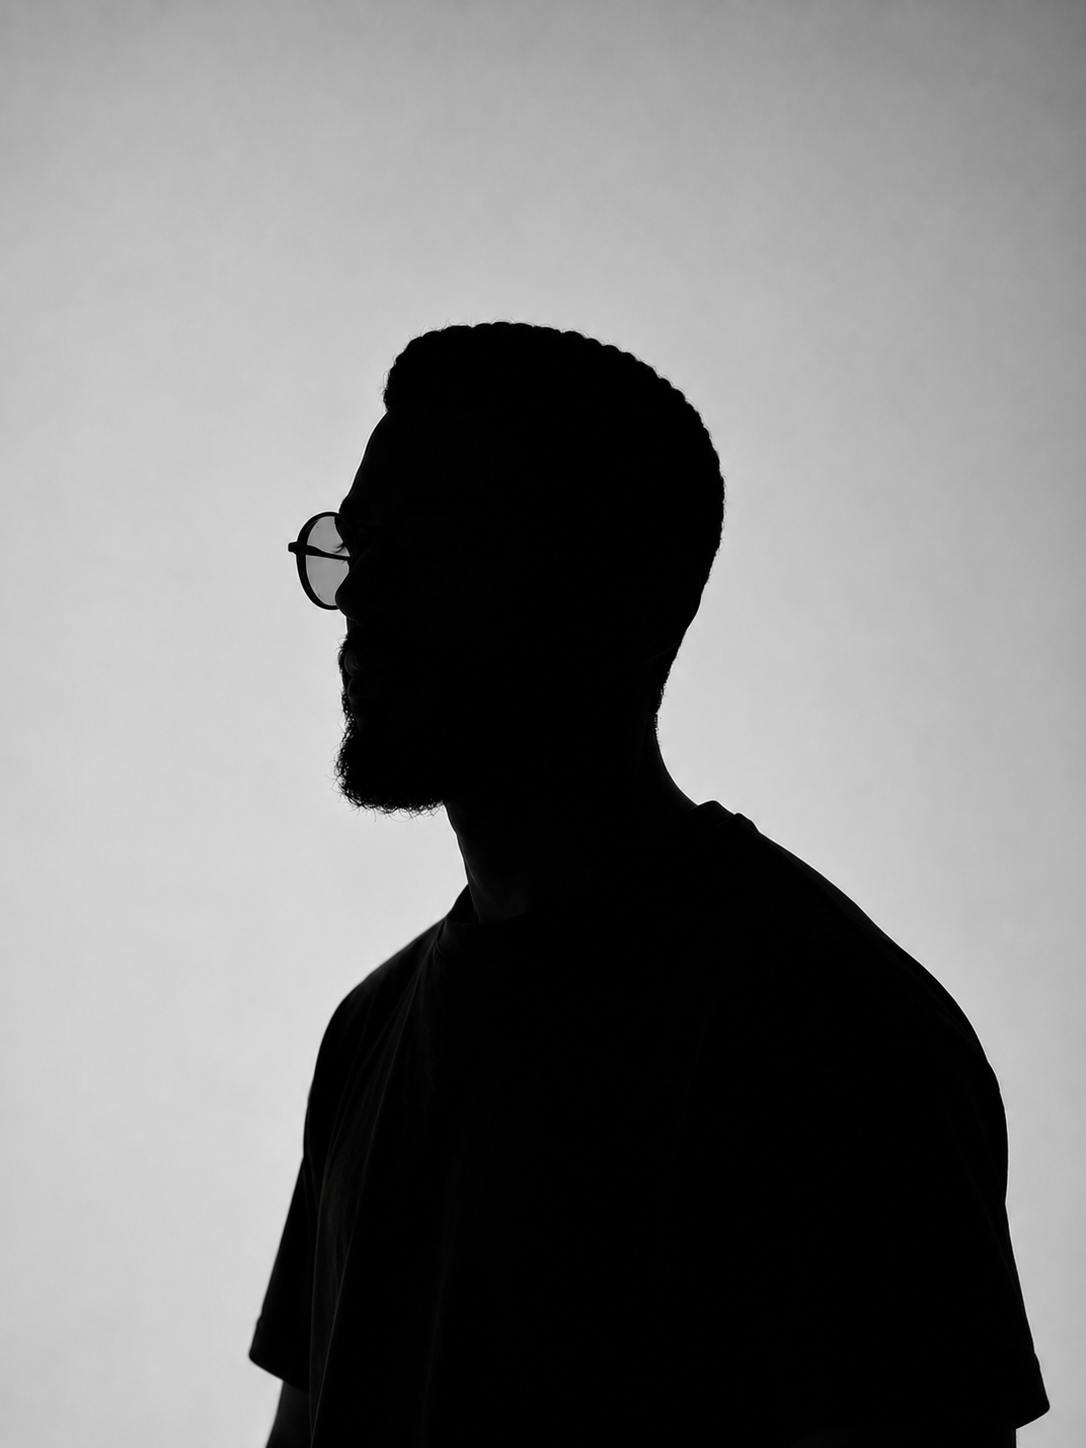
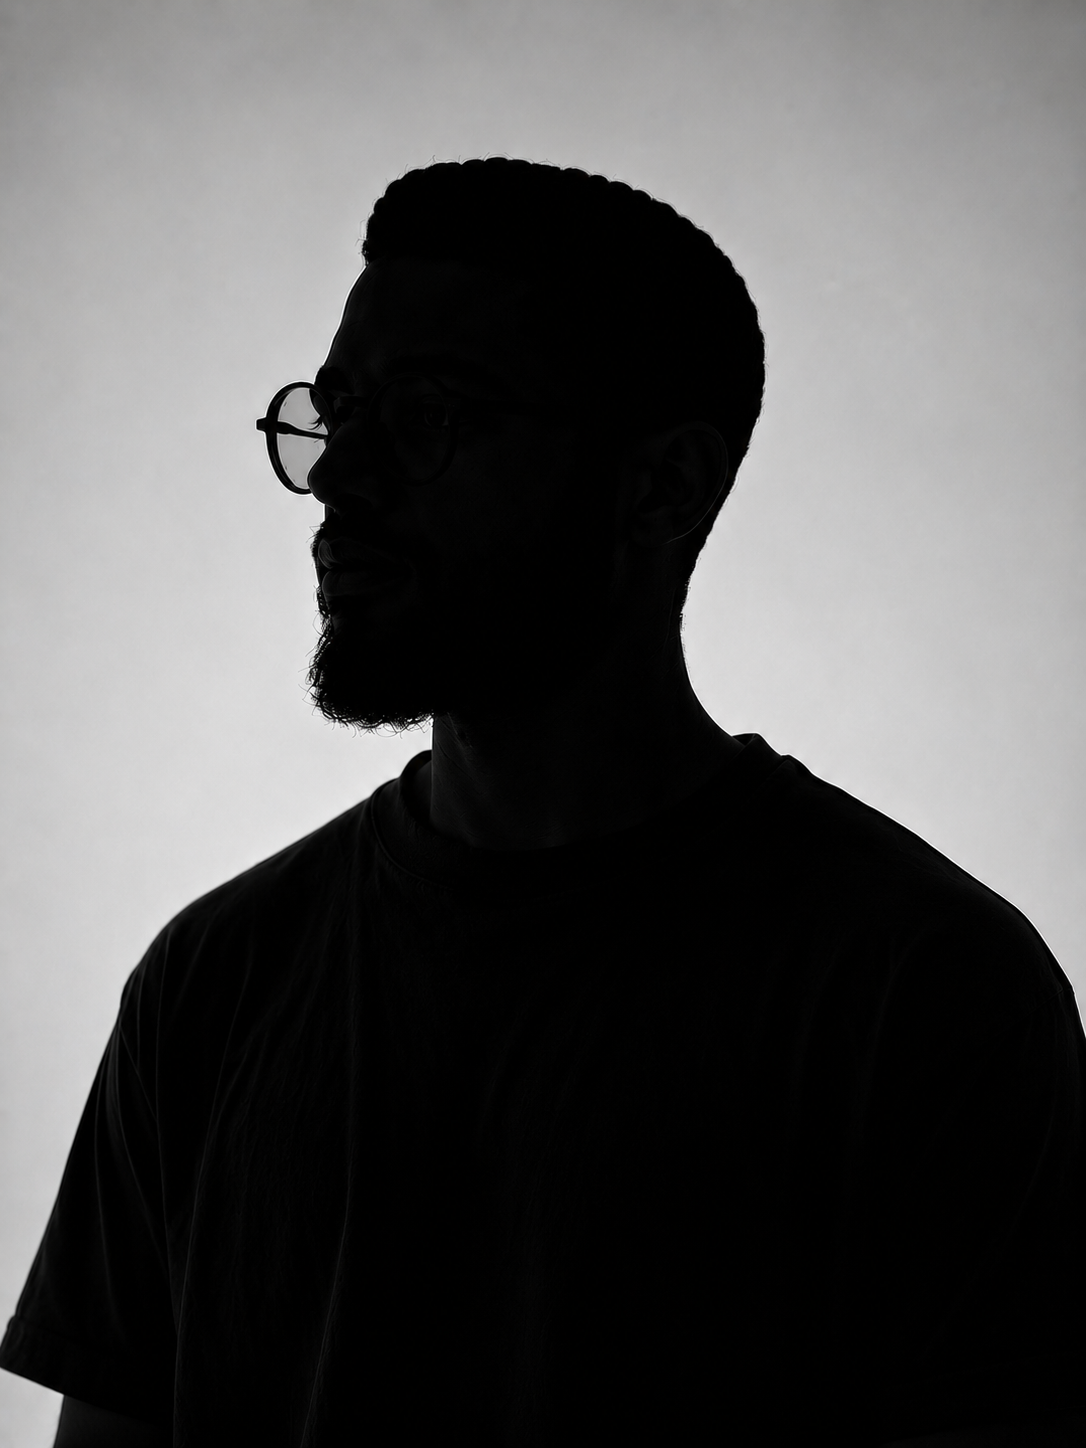
Small edits

Changed region(s): [[0.0, 0.0932, 1.0, 1.0], [0.0, 0.0, 0.0608, 0.1243]]

diff --git a/app/features/hero/HeroCTA.tsx b/app/features/hero/HeroCTA.tsx
@@ -1,0 +1,52 @@
+import { Button } from "@/components/ui/button"; // Standard shadcn button import
+import { ArrowRight, ArrowUpRight } from "lucide-react";
+
+export default function HeroCTA() {
+  return (
+    <section className="mt-14 mx-5 sm:mx-20 flex justify-between">
+      {/* Left Content: Typography */}
+      <div className="max-w-[620px] hidden md:block">
+        <p className="text-[1.125rem] font-medium leading-[1.65] text-zinc-900 md:text-[1.1875rem]">
+          Independent developer crafting quiet, considered
+          <br className="hidden sm:block" />
+          interfaces for ambitious teams. Emphasis on
+          <br className="hidden sm:block" />
+          typography, motion, and detail.
+        </p>
+      </div>
+
+      {/* Right Content: Buttons */}
+      <div className="flex flex-col  lg:flex-row items-start gap-4">
+        <Button
+          className="cursor-pointer group relative overflow-hidden flex py-6 sm:py-0 sm:h-[58px] items-center rounded-full bg-black pl-6 sm:pl-8 pr-2.5 transition-all hover:bg-black/90 
+  before:absolute before:inset-0 before:content-[''] before:-translate-x-[150%] before:skew-x-[30deg] before:bg-gradient-to-r before:from-transparent before:via-white/60 before:to-transparent before:transition-transform before:duration-500 before:ease-out hover:before:translate-x-[150%]"
+        >
+          <span className="relative z-10 mr-4 sm:mr-8 text-[11px] font-bold uppercase tracking-[0.25em] text-white">
+            View Projects
+          </span>
+          <div className="relative z-10 flex h-7 w-7 sm:h-10 sm:w-10 items-center justify-center rounded-full bg-[#1e1e1e] transition-transform duration-300 group-hover:translate-x-0.5">
+            <ArrowRight
+              className="h-3 w-3 sm:h-4 sm:w-4 text-white"
+              strokeWidth={2}
+            />
+          </div>
+        </Button>
+
+        <Button
+          variant="outline"
+          className="cursor-pointer group flex py-6 sm:py-0 sm:h-[58px] items-center rounded-full border-[#e4e4e7] hover:border-black bg-white pl-6 sm:pl-8 pr-2.5 transition-all hover:bg-zinc-50"
+        >
+          <span className="mr-8 text-[11px] font-bold uppercase tracking-[0.25em] text-zinc-900">
+            Contact
+          </span>
+          <div className="flex h-7 w-7 sm:h-10 sm:w-10 items-center justify-center rounded-full border border-[#e4e4e7] bg-white transition-transform duration-300 group-hover:-translate-y-0.5 group-hover:translate-x-0.5">
+            <ArrowUpRight
+              className="h-3 w-3 sm:h-4 sm:w-4 text-zinc-900"
+              strokeWidth={2.5}
+            />
+          </div>
+        </Button>
+      </div>
+    </section>
+  );
+}

diff --git a/app/features/hero/HeroContent.tsx b/app/features/hero/HeroContent.tsx
@@ -12,7 +12,7 @@ function HeroContent() {
       </div>
 
       {/* Portrait Section */}
-      <div className="relative z-1 p-2 sm:p-3 w-fit -left-[85px] md:left-0 sm:ml-0   ">
+      <div className="relative z-1 p-2 sm:p-3 w-fit -left-[85px] md:left-0 sm:ml-0 2xl:pr-10  ">
         {/* Top Left Crop Mark */}
         <div className="absolute -top-[0px] -left-[0px] w-[52px] h-[52px] border-t border-l border-gray-400"></div>
 
@@ -20,12 +20,12 @@ function HeroContent() {
         <div className="absolute -bottom-[0] -right-[0] w-[52px] h-[52px] border-b border-r border-gray-400"></div>
 
         {/* Portrait Placeholder */}
-        <div className="w-[130px] h-[160px] sm:w-[200px] sm:h-[260px]  md:w-[230px] md:h-[300px] lg:w-[320px] lg:h-[440px]  relative z-10">
+        <div className="w-[130px] h-[160px] sm:w-[200px] sm:h-[260px]  md:w-[230px] md:h-[300px] lg:w-[330px] lg:h-[460px]  relative z-10">
           <img src="images/portrait.png" className="w-full h-full" alt="" />
         </div>
 
         {/* Caption Row */}
-        <div className="hidden sm:block absolute bottom-[-20px] w-full pr-5 flex justify-between items-center text-[9px] tracking-[0.25em] text-gray-600 uppercase mt-1">
+        <div className="hidden sm:flex 2xl:pr-12 absolute bottom-[-20px] w-full pr-5 flex justify-between items-center text-[9px] tracking-[0.25em] text-gray-600 uppercase mt-1">
           <span>Fig. 001</span>
           <span className="w-3 h-px bg-gray-400"></span>
           <span>Portrait</span>

diff --git a/app/features/hero/Hero.tsx b/app/features/hero/Hero.tsx
@@ -3,18 +3,24 @@ import LeftSideLabel from "./LeftSideLabel";
 import RightSideLabel from "./RightSideLabel";
 import HeroContent from "./HeroContent";
 import HeroBottomBar from "./HeroBottomBar";
+import Navbar from "@/components/Navbar";
+import HeroCTA from "./HeroCTA";
 
 function Hero() {
   return (
-    <main className="pb-[100px]  pt-[110px] w-full font-sans text-gray-900   min-h-[539px] mx-auto ">
-      <div className=" relative">
-        <HeroTopBar />
-        <LeftSideLabel />
-        <RightSideLabel />
-        <HeroContent />
-        <HeroBottomBar />
-      </div>
-    </main>
+    <>
+      <Navbar />
+      <main className="pb-[100px]  pt-[50px] w-full font-sans text-gray-900   min-h-[539px] mx-auto ">
+        <div className=" relative">
+          <HeroTopBar />
+          <LeftSideLabel />
+          <RightSideLabel />
+          <HeroContent />
+          <HeroBottomBar />
+          <HeroCTA />
+        </div>
+      </main>
+    </>
   );
 }
 

diff --git a/app/features/hero/HeroBottomBar.tsx b/app/features/hero/HeroBottomBar.tsx
@@ -1,6 +1,6 @@
 function HeroBottomBar() {
   return (
-    <div className=" -mt-8 mx-6 sm:-mt-10 2xl:mt-10 sm:mx-13 flex  items-center gap-3 text-[10px] tracking-[0.25em] text-gray-700 uppercase">
+    <div className=" -mt-8 mx-6 sm:-mt-10 2xl:mt-6 sm:mx-13 flex  items-center gap-3 text-[10px] tracking-[0.25em] text-gray-700 uppercase">
       <div className="w-[46px] h-px bg-gray-400"></div>
       <span className="text-gray-400">— Amr Oraby</span>
     </div>

diff --git a/app/layout.tsx b/app/layout.tsx
@@ -17,7 +17,9 @@ type RootLayoutProps = Readonly<{
 export default function RootLayout({ children }: RootLayoutProps) {
   return (
     <html lang="en" className={cn("font-sans", geist.variable)}>
-      <body>{children}</body>
+      <body className="selection:bg-[#1b1a18] selection:text-white">
+        {children}
+      </body>
     </html>
   );
 }

diff --git a/app/page.tsx b/app/page.tsx
@@ -1,12 +1,9 @@
 import { HomeBackground } from "@/components/HomeBackground";
-import Navbar from "@/components/Navbar";
-
 import Hero from "./features/hero/Hero";
 
 export default function Page() {
   return (
     <HomeBackground>
-      <Navbar />
       <Hero />
     </HomeBackground>
   );
